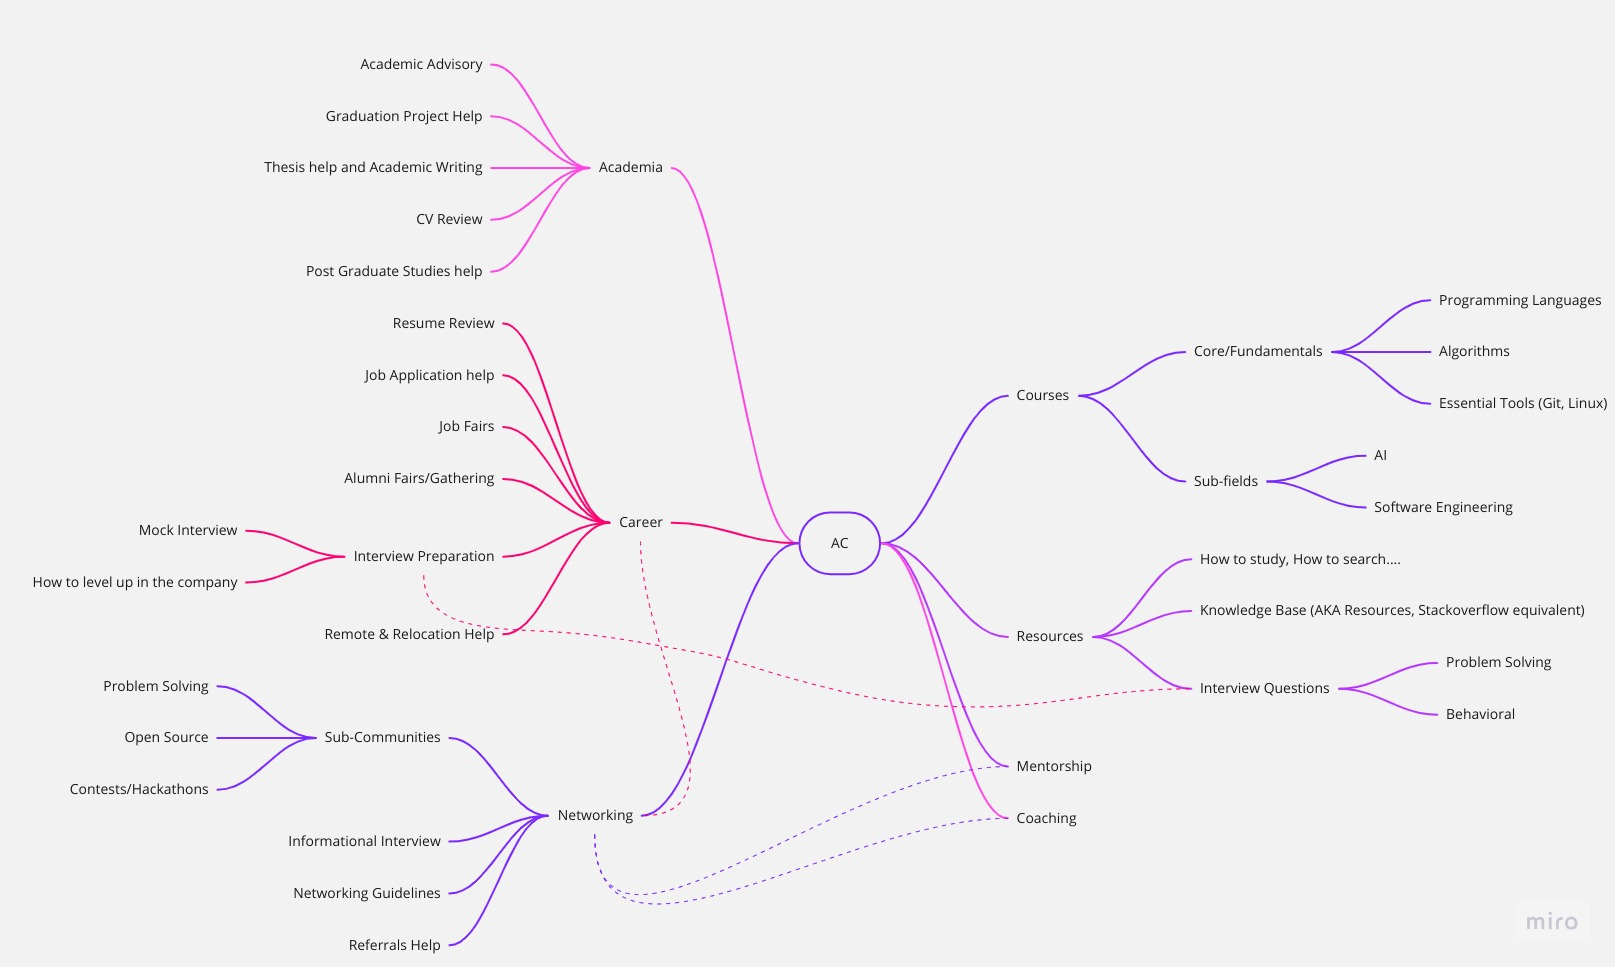
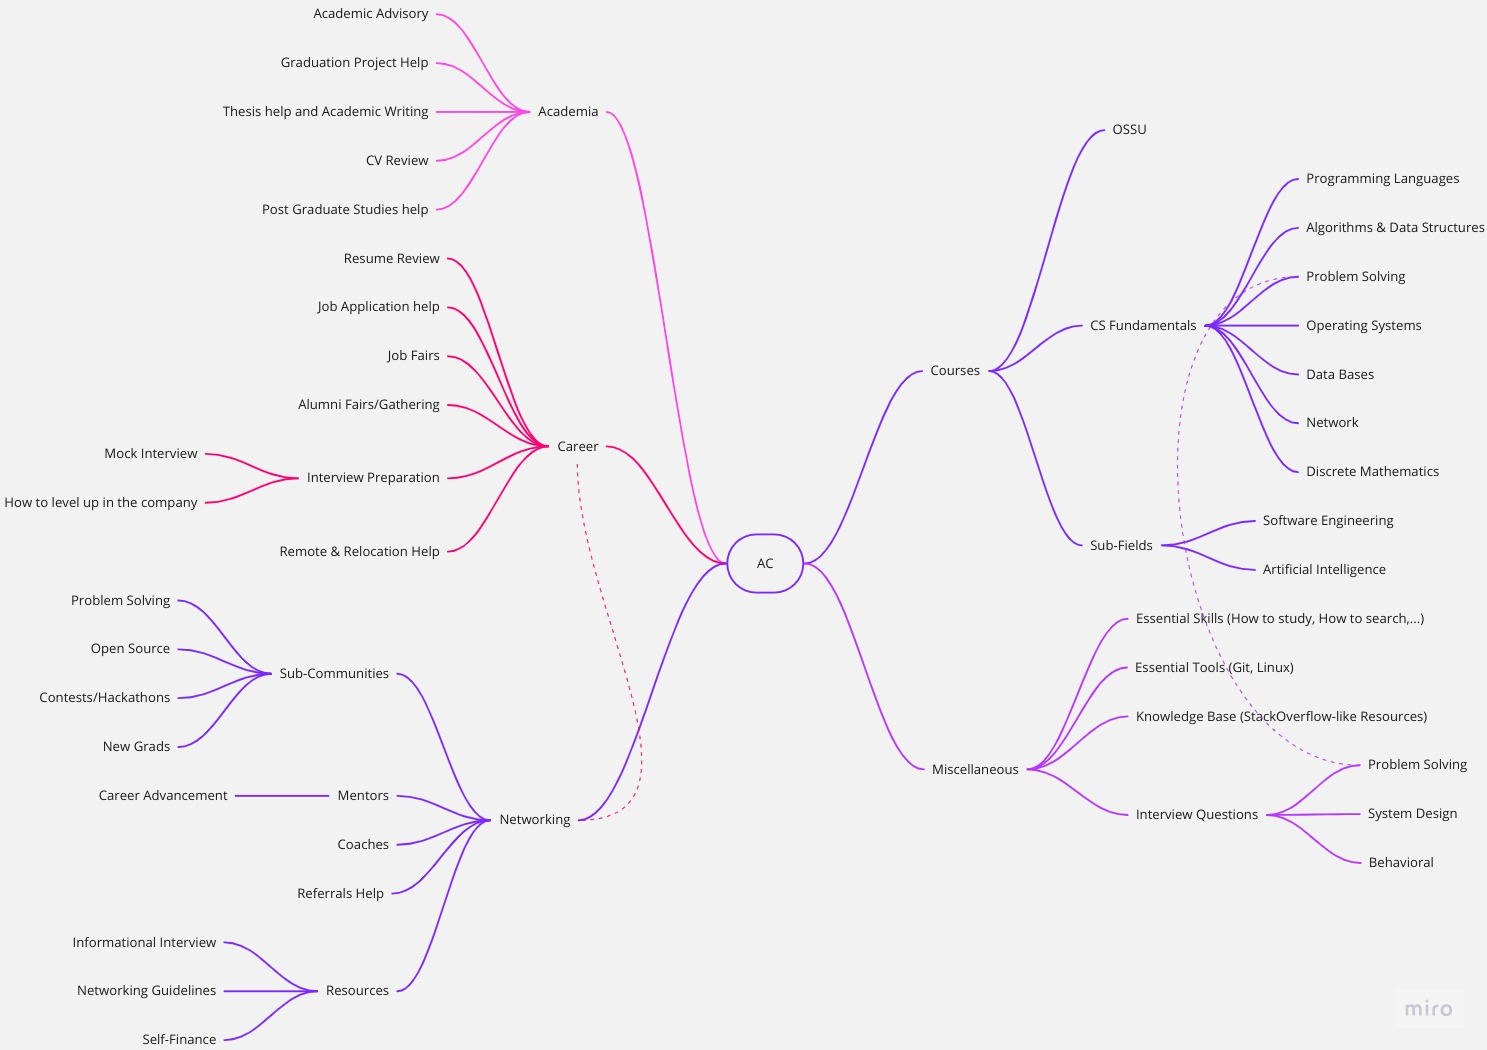
Bare minimum info is provided

diff --git a/README.md b/README.md
@@ -1,28 +1,123 @@
 # ACU
-Open University providing MOOCs and Career Services and Academic Advisory
 
-**Note**: This is under construction and not everything is explained.
+An Open University providing MOOCs, Career Services, Academic Advisory, and Networking for CS/CSE only.
+
+**Note**: Repo is **under construction** and not everything is explained. But the **services are already established**. Some content on the server is in **Arabic, it will change to English soon**.
 
 ## Services Mind Map
 
 ![MindMap](images/ACU_Services.jpg)
 
-# Contents
-1. [Summary](#Summary)
-2. [Resources](#Resources)
-3. [Community](#Community)
+## Contents
+
+1. [Summary](#summary)
+2. [Resources](#resources)
+   1. [Courses](#courses)
+   2. [Miscellaneous](#miscellaneous)
+3. [Community](#community)
+   1. [General Info](#general-info)
+      1. [Rules](#rules)
+      2. [Conversation Etiquette](#conversation-etiquette)
+      3. [Members](#members)
+      4. [FAQ](#faq)
+   2. [Academia](#academia)
+   3. [Career](#career)
+   4. [Networking](#networking)
+   5. [Server Details](#server-details)
 
 ## Summary
+
 Active Courses University is built on top of Resources from [OSSU](https://github.com/ossu/computer-science)'s curriculum, Suggestions from Software Engineer Pioneers and other reliable sources.
 
-ACU is not just about MOOCs but also about imitating a real university community. ACU members are all authentic members providing free Career Services, Academic Advisory, coaching, mutual mentorship, and much more. From Resume/CV review, job & interview resources to networking.
+ACU is not just about MOOCs but also about imitating a real university community. ACU members are all authentic members providing free Career Services, Academic Advisory, mutual coaching, mutual mentorship, mutual tutoring, and much more. To Illustrate some tangible benefits for just the Mutual Tutoring:
+
+1. Students typically get 1-3 answers within 5 minutes of their questions.
+2. Students provide reviews and good resources after finishing a topic, in an iterative manner, leading to a curated educational resource after some time.
+3. Students evade mistakes as others will guide them; For example, studying without taking notes, not studying from interactive courses.
 
 ACU is looking to expand current services to support everything like real universities. This can only be done via each member's contribution, suggestions, and services. Community is built on a single principle, "Those Who want help, give help"; Beneficiaries from such services shall try, with all they have, to support and contribute back to the community.
 
-Currently, almost all services in the Mind Map are limited to Trusted members on the server. But don't worry, because you can be Trusted via your contribution to the community.
+Currently, almost all services in the Mind Map are limited to Trusted members on the server. But don't worry, because you can be *Trusted* by contributing to the community.
+
+Finally, if you like the server/repository, share it or invite your acquaintances and colleagues. You will benefit directly and indirectly; your tutor, coach, mentor or study buddy might be your colleague you invited or a person that your colleague invited. Try to share it on your FB, class group (E.g., WhatsApp group). If you can ask someone popular to share this group; Do it.
+
+Check [Community](#community) to join us.
 
 ## Resources
-Mainly [OSSU](https://github.com/ossu/computer-science) and secondarily [Omar Shawky's CS-Roadmap](https://github.com/OmarShawky1/CS-Roadmap) and pinned messages in discord server. Soon, these resources will be merged and rewritten to accommodate other CS sub-fields such as SWE.
+
+### Courses
+
+* All courses follow IEEE CS2013 Guidelines (Check OSSU) while being free and interactive (autograder for assignments and final project/exam).
+* Notes:
+  * Course reviews will be provided in the GitHub Issues soon.
+  * Resources that will be enhanced and rewritten in our [Website](https://www.activecourses.tech/).
+* Students are free to choose whichever course they like, but some benefits are studying from the same source as others as follows:
+  * This is the servers' purpose (mentoring each other as our questions will be around the same course, and it will be easier to find an answer); Otherwise, Won't be any different from Coursera's Discussion forum which doesn't help much and takes time for your question to be answered.
+  * Collected efforts (for picking a specific course objectively) will cover blind spots that each one has, and it will be likely better than each one picking his course & wasting efforts on course comparison.
+
+Mainly [OSSU](https://github.com/ossu/computer-science) and secondarily [Omar Shawky's CS-Roadmap](https://github.com/OmarShawky1/CS-Roadmap) and pinned messages in the Discord server (which will soon be merged and rewritten to accommodate other CS Sub-Fields such as SWE).
+
+To be done...
+
+### Miscellaneous
+
+To be done...
 
 ## Community
-[![Discord](https://img.shields.io/discord/950993900720492574?logo=discord&logoColor=ffffff&label=%20&labelColor=6A7EC2&color=7389D8)](https://discord.gg/QrfTN2Aukx)
+
+* Watch Onboarding video: (#TODO)
+* Join [![Discord](https://img.shields.io/discord/950993900720492574?logo=discord&logoColor=ffffff&label=%20&labelColor=6A7EC2&color=7389D8)](https://discord.gg/QrfTN2Aukx)
+
+### General Info
+
+#### Rules
+
+1. Any **hateful discussion is prohibited**, and you will be banned forever.
+   1. The Server has 0% tolerance against contentions like **Religious** Disputes/Curses, **Politics**, **Sexism**, and NSFW Content (Curses or Images).
+   2. Never do "Character assassination". Even for a person who isn't on the server.
+   3. You are allowed to criticize respectfully & objectively. E.g., You can claim a course to be a "Scam" (only If you have proof) but you are not allowed to curse its instructor.
+
+#### Conversation Etiquette
+
+1. If talking needs more than 2 replies, you **must open a thread**.
+2. If you ask a question, **be responsive to answers**.
+3. **Never ask the same question twice**.
+4. **Never ask before doing your research & showing it**.
+5. **Don't mention** people (E.g., @omar1111) nor DM unless they are comfortable with it. (ESPECIALLY **MENTORS**)
+6. Don't ask to ask; Ask right away.
+
+#### Members
+
+1. *Trusted*:
+   1. What/Who are *Trusted*? They are people, that were noticed & agreed upon him by 2 or more other *Trusted*, supporting the community.
+   2. How to be *Trusted*? Do all you can to support the community and other *Trusted* will make sure of that. Each member is tested before enrollment.
+   3. What are there benefits?
+      1. Have access to the entire left side, of the aforementioned Mind Map, in the Discord Server.
+      2. Ask unlimited questions and get exceptional answers.
+2. *Students*:
+   1. Who are *Students*: Authentic admitted people who applied using one of the authentication methods in the newcomer channel in the Discord server.
+   2. What are there benefits?
+      1. Find tutors for the entire right side of the aforementioned Mind Map.
+      2. Ask mentors.
+      3. Have access to a single channel, called life-after-grad, that provides help in everything on the left side of the aforementioned Mind Map.
+      4. But all the above benefits are limited; E.g., People asking questions in Princeton Algorithms Part 1 Week 6 shall help people in Week 5 and the hierarchy goes on. If a student does not help like he gets help, he is warned to be banned.
+
+#### FAQ
+
+To be done...
+
+### Academia
+
+To be done...
+
+### Career
+
+To be done...
+
+### Networking
+
+To be done...
+
+## Server Details
+
+To be done...
